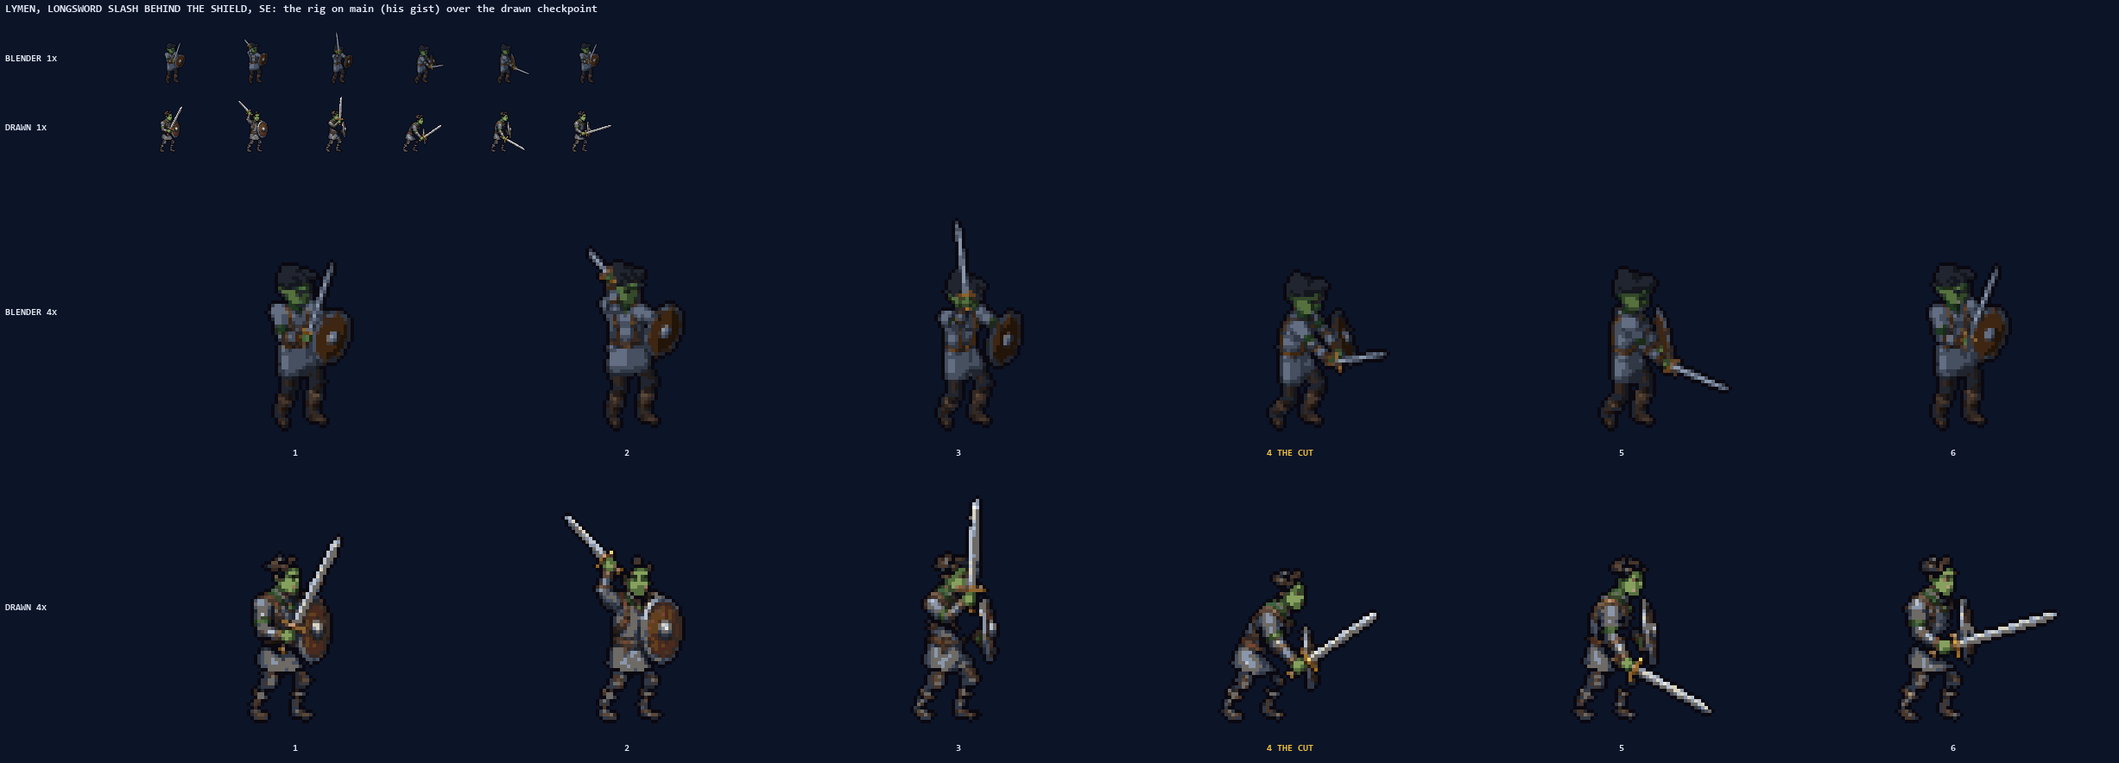
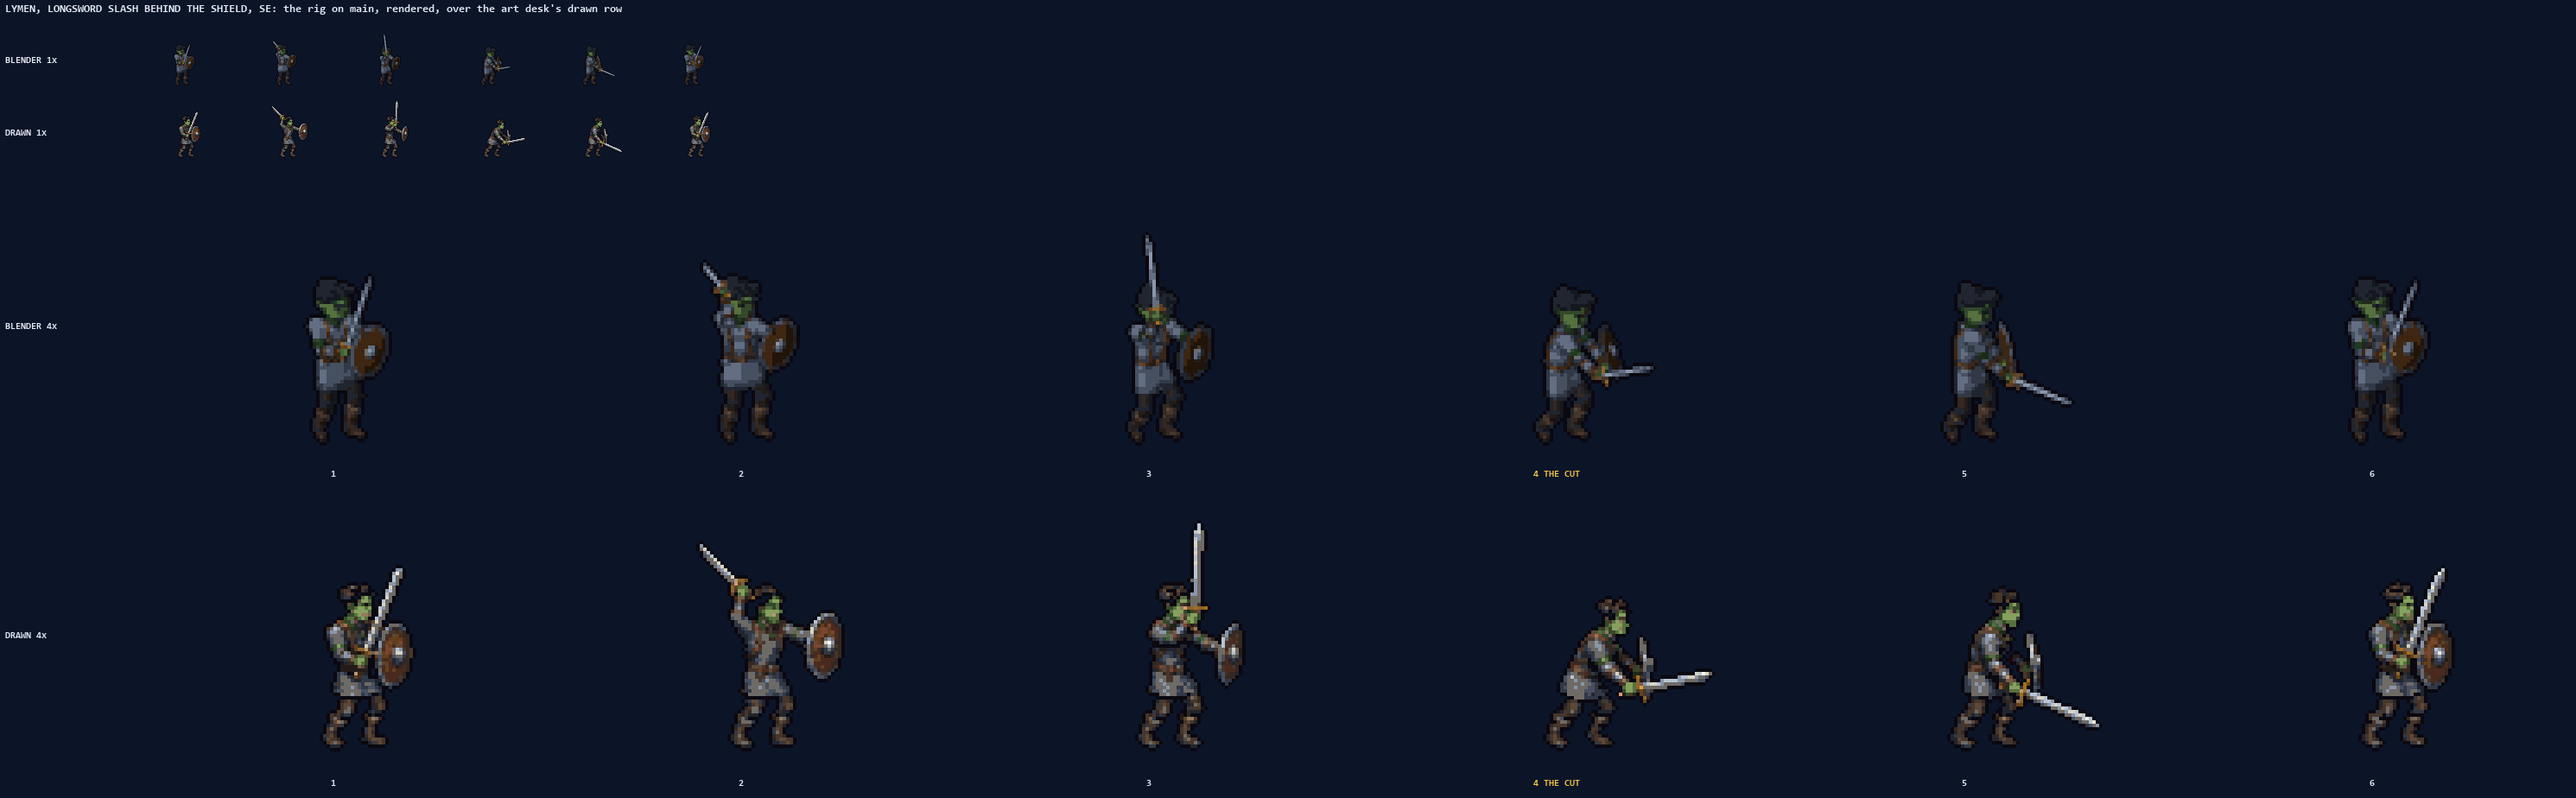
The Blender Lymen's stills: every rendered view over the art desk's drawn row at that facing
lymen_check_p2 carries five drawn views now, so the comparison is a page a
view (S SE E NE N), 1x and 4x; the one-view still on his older poser file is
dropped.

diff --git a/deep16/index.html b/deep16/index.html
@@ -77,7 +77,7 @@
 <script src="js/art.js?v=e1ce4cf012"></script>
 <script src="data/cavern.js?v=647c1a184a"></script>
 <script src="data/maps.js?v=bef56a5de9"></script>
-<script src="data/sprites.js?v=c82d6fa107"></script>
+<script src="data/sprites.js?v=509ec1c8b7"></script>
 <script src="js/sprites.js?v=ac7a3234c4"></script>
 <script src="js/save.js?v=f0ad7180ca"></script>
 <script src="data/spells.js?v=ae0037fb81"></script>
@@ -176,7 +176,7 @@
 <script src="js/skyshow.js?v=7151daab7a"></script>
 <script src="js/barleyshow.js?v=186123cdd5"></script>
 <script src="js/rulesshow.js?v=23bec5ec39"></script>
-<script src="../js/eyes.js?v=0a99adac28"></script>
+<script src="../js/eyes.js?v=351da00029"></script>
 <script src="../js/tour.js?v=aacb8fc1d3"></script>
 <script src="js/onegallery.js?v=198c5b983d"></script>
 <script src="js/situations16.js?v=f04fedccd1"></script>

diff --git a/deep16/data/sprites.js b/deep16/data/sprites.js
@@ -9720,7 +9720,7 @@
 "name": "Lymen (Blender, on the mannequin)",
 "hold": [
 "a review sheet: the EXPERIMENT of 11-13 -- Lymen modelled on the mannequin's own bones and rendered from the rig, to judge beside the art desk's drawn row -- worn by nobody",
-"the rows are the rig's as it stands on main (his gist, re-posed after the art desk drew its checkpoint): the poses differ a little from the drawn row's"
+"the rows are the rig's as it stands on main, the guide the art desk drew lymen_check_p2 over: the same six beats, the cut on frame 4"
 ],
 "source": "built and rendered by tools/lymen-blend.py over tools/twinmace-blend.py kit=sword+shield (11-13), snapped and outlined by tools/pixelate.py, laid by tools/lymen-blend-sheet.py; S SE E NE N rendered, SW W NW mirrored"
 },

diff --git a/tools/lymen-blend-sheet.py b/tools/lymen-blend-sheet.py
@@ -1,16 +1,15 @@
 """The Blender Lymen's renders (tools/lymen-blend.py) through the pipeline's own palette and outline step (tools/pixelate.py `pixelate`), laid as a
 REVIEW sheet in the game's row shape, and the comparison stills beside the art desk's drawn row. Plain Python (Pillow, numpy).
 
-    python tools/lymen-blend-sheet.py [griz]
+    python tools/lymen-blend-sheet.py
 
 Reads deep16/_src/lymen-blend/render/ (gitignored); writes
     deep16/art/lymen_blend_p2.png/.json     idle 1 and attack 6 (release 3), eight facings: S SE E NE N rendered, SW W NW their mirrors. Worn by
                                             nobody: the row gallery shows it beside the drawn checkpoint, deep16/?rows=lymen_blend_p2,lymen_check_p2&beside
     deep16/art-src/lymen-blend/
         lymen-blend-views-4x.png            the five rendered views, six beats each, at 4x on the game's navy
-        lymen-blend-vs-drawn-SE.png         like for like: the rendered SE row over the art desk's drawn SE row (lymen_check_p2), at 1x and at 4x
-        lymen-blend-griz-vs-drawn-SE.png    (`griz`, when deep16/_src/lymen-blend-griz/ is rendered) the same figure on the very poser file the
-                                            art desk drew over (his 11-13 00:12 frames), over the drawn row: fidelity frame by frame
+        lymen-blend-vs-drawn-<view>.png     like for like: each rendered view over the art desk's drawn row at that facing (lymen_check_p2, drawn over
+                                            the same guide), at 1x and at 4x
 """
 import importlib.util, json, os, sys
 import numpy as np
@@ -57,9 +56,9 @@ def drawn_row(name='lymen_check_p2', f=7):
     return im.crop((0, a['y'] + f * a['fh'], a['fw'] * a['frames'], a['y'] + (f + 1) * a['fh'])), a
 
 
-def versus(mine, M, path, label):
+def versus(mine, M, path, label, f=7):
     """the rendered SE row over the drawn SE row: at 1x, then at 4x, the feet on one line, numbered, the cut gold"""
-    dr, a = drawn_row(); n = 6
+    dr, a = drawn_row(f=f); n = 6
     cw = max(M['fw'], a['fw']); up = max(M['ay'], a['ay']); dn = max(M['fh'] - M['ay'], a['fh'] - a['ay']); ch = up + dn
 
     def row(im, fw, ax, ay):
@@ -71,7 +70,7 @@ def versus(mine, M, path, label):
     F, F2 = font(13), font(11); lab = 150; Z = 4
     W = lab + cw * n * Z; H = 26 + ch * 2 + 14 + (ch * Z + 22) * 2
     pg = Image.new('RGB', (W, H), NAVY); d = ImageDraw.Draw(pg); y = 22
-    d.text((6, 4), 'LYMEN, LONGSWORD SLASH BEHIND THE SHIELD, SE: ' + label, font=F, fill=INK)
+    d.text((6, 4), 'LYMEN, LONGSWORD SLASH BEHIND THE SHIELD, %s: the rig on main, rendered, over the art desk\'s drawn row' % label, font=F, fill=INK)
     for im, t in ((A, 'BLENDER 1x'), (B, 'DRAWN 1x')):
         pg.paste(im.convert('RGB'), (lab, y)); d.text((6, y + ch // 2), t, font=F2, fill=INK); y += ch
     y += 14
@@ -101,7 +100,7 @@ def main():
     j.update(name='Lymen (Blender, on the mannequin)',
              hold=["a review sheet: the EXPERIMENT of 11-13 -- Lymen modelled on the mannequin's own bones and rendered from the rig, to judge beside "
                    "the art desk's drawn row -- worn by nobody",
-                   'the rows are the rig\'s as it stands on main (his gist, re-posed after the art desk drew its checkpoint): the poses differ a little from the drawn row\'s'],
+                   'the rows are the rig\'s as it stands on main, the guide the art desk drew lymen_check_p2 over: the same six beats, the cut on frame 4'],
              source='built and rendered by tools/lymen-blend.py over tools/twinmace-blend.py kit=sword+shield (11-13), snapped and outlined by '
                     'tools/pixelate.py, laid by tools/lymen-blend-sheet.py; S SE E NE N rendered, SW W NW mirrored')
     json.dump(j, open(p, 'w', encoding='utf-8'), indent=1)
@@ -114,11 +113,8 @@ def main():
         pg.paste(bg.resize((s.width * Z, s.height * Z), Image.NEAREST).convert('RGB'), (lab, k * M['fh'] * Z)); d.text((6, k * M['fh'] * Z + 8), v, font=F, fill=INK)
     pg.save(os.path.join(OUT, 'lymen-blend-views-4x.png'), optimize=True)
 
-    versus(strip(C['slash']['SE']), M, os.path.join(OUT, 'lymen-blend-vs-drawn-SE.png'), 'the rig on main (his gist) over the drawn checkpoint')
-    if 'griz' in sys.argv[1:]:
-        G, gm = cells('lymen-blend-griz')
-        versus(strip(G['slash']['SE']), gm['rows']['slash'], os.path.join(OUT, 'lymen-blend-griz-vs-drawn-SE.png'),
-               'the very frames the art desk drew over (his 11-13 00:12 poser file)')
+    for v in VIEWS:          # like for like: each rendered view over the art desk's drawn row at that facing (drawn over the same guide, GUIDE-2026-11-13b)
+        versus(strip(C['slash'][v]), M, os.path.join(OUT, 'lymen-blend-vs-drawn-%s.png' % v), v, FACING[v])
 
 
 if __name__ == '__main__':
